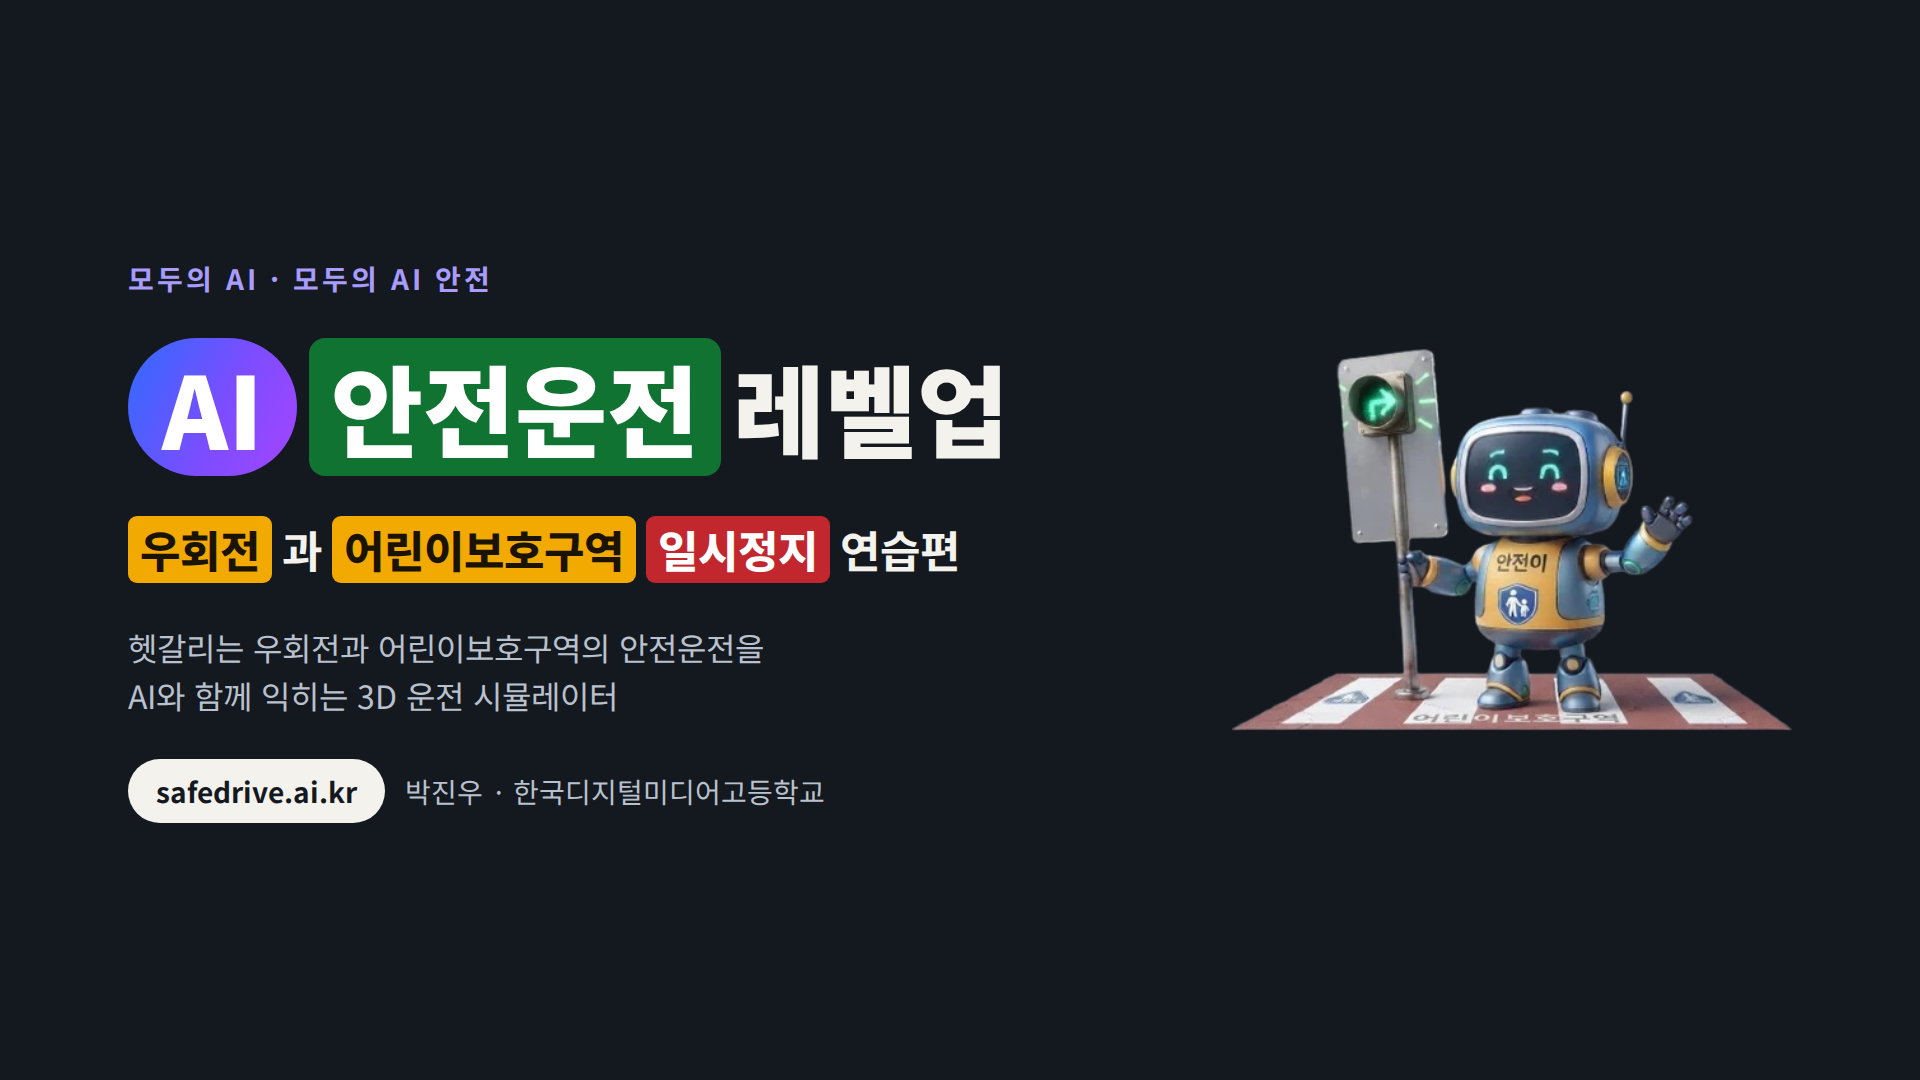
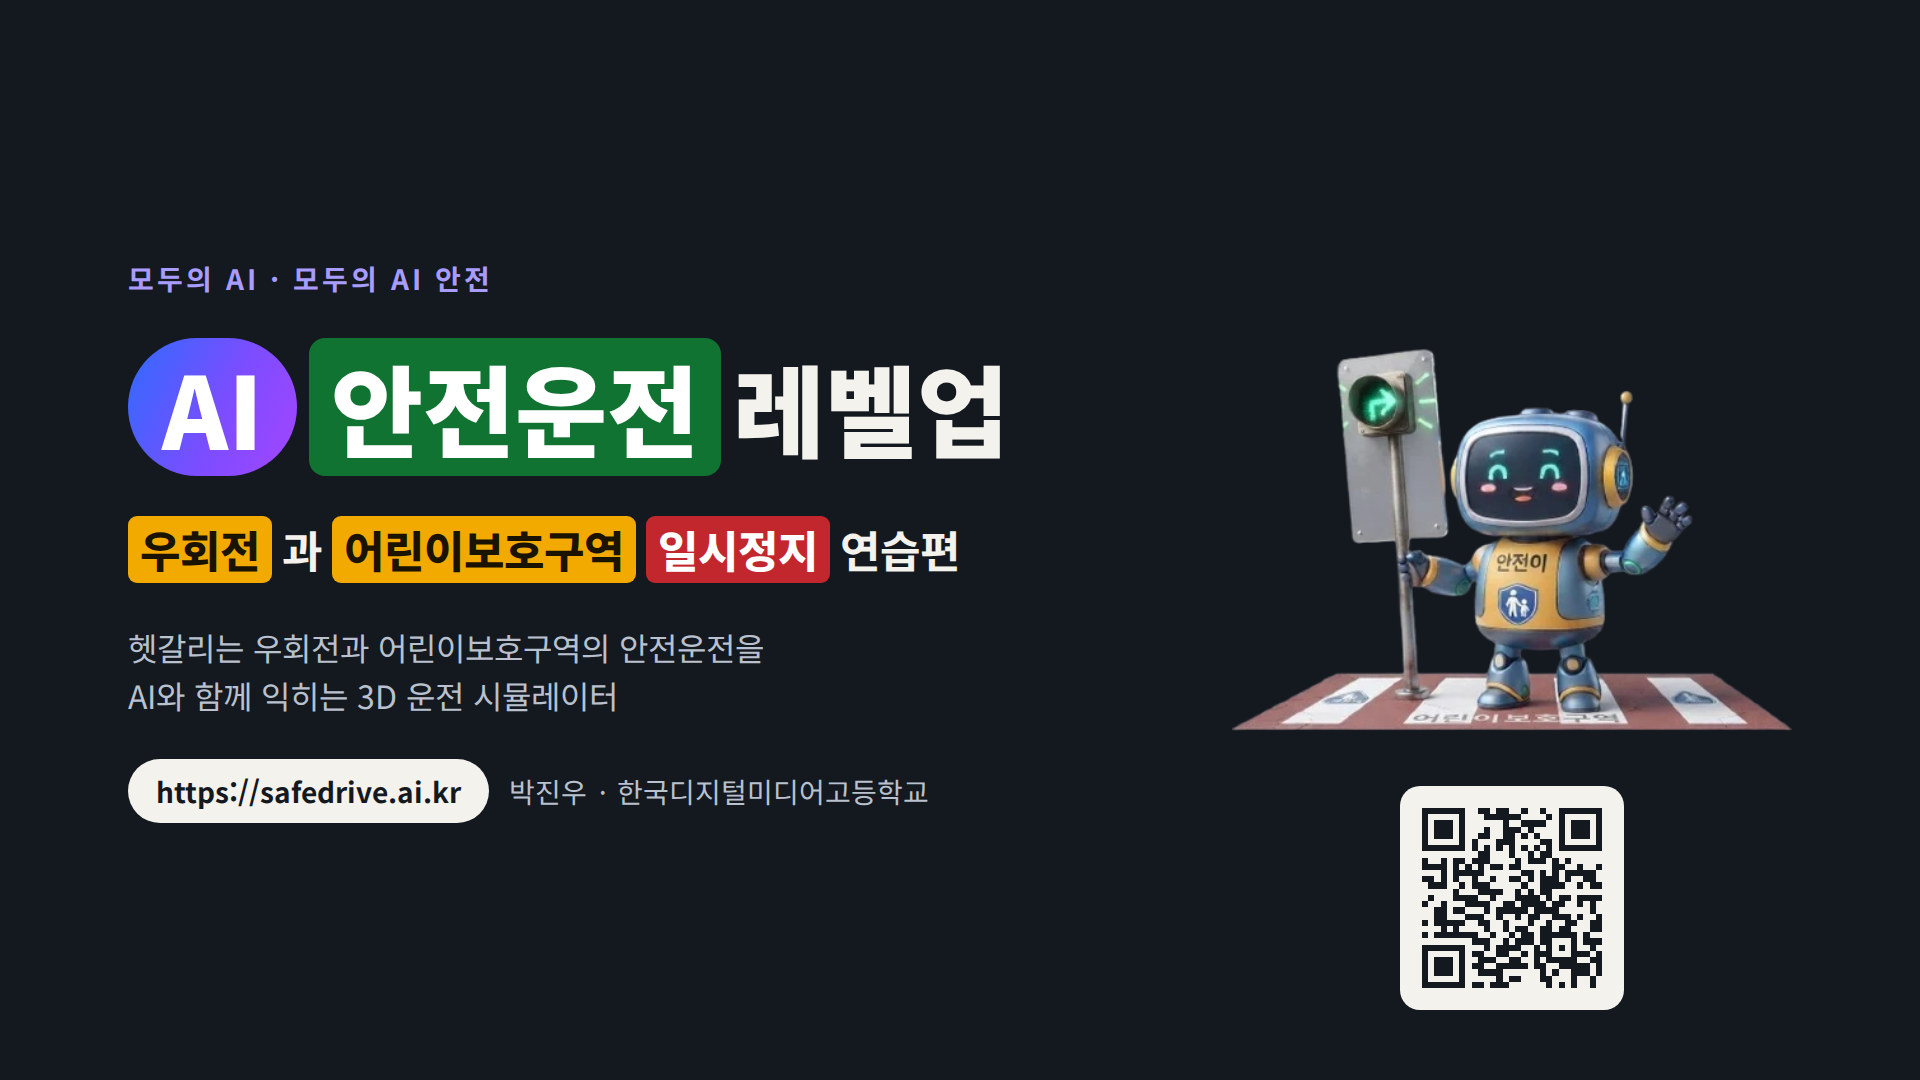
표지와 2쪽 주소를 온전히 적고 표지에 QR 을 넣는다
표지를 찍으면 바로 들어올 수 있게 로봇 아래에 QR 을 두었다.

그러다 18쪽 QR 이 아직 옛 주소(safeturn.vercel.app)를 담고 있는 것을
찾아 함께 고쳤다. 도메인을 바꿀 때 마무리 장표의 QR 만 다시 만들고
이쪽은 지나쳤다. 세 장표의 QR 을 그림에서 직접 읽어 확인했다.

Changed region(s): [[0.7188, 0.7028, 0.8438, 0.9472], [0.0625, 0.7028, 0.4688, 0.7639]]

diff --git a/AI_safelevelup_portfolio.html b/AI_safelevelup_portfolio.html
@@ -226,7 +226,7 @@
 
   <div class="frame" id="frame">
     <section class="slide" data-chapter="처음" data-title="표지">
-      <img src="docs/slides/01-cover.png" alt="AI 안전운전 레벨업 — 우회전과 어린이보호구역 일시정지 연습편. 모두의 AI · 모두의 AI 안전, 박진우 · 한국디지털미디어고등학교" decoding="async" fetchpriority="high">
+      <img src="docs/slides/01-cover.png" alt="AI 안전운전 레벨업 — 우회전과 어린이보호구역 일시정지 연습편. 모두의 AI · 모두의 AI 안전, 박진우 · 한국디지털미디어고등학교. 주소 https://safedrive.ai.kr 과 QR 코드" decoding="async" fetchpriority="high">
     </section>
     <section class="slide" data-chapter="처음" data-title="들어가며 · AI 안전운전 레벨업을 만든 이유">
       <img src="docs/slides/02-intro.png" alt="들어가며 — AI 안전운전 레벨업을 만든 이유" loading="lazy" decoding="async">

diff --git a/CHANGELOG.md b/CHANGELOG.md
@@ -38,6 +38,8 @@
 
 ### 고침
 
+- **18쪽 QR 코드가 옛 주소를 담고 있었습니다** — 찍으면 `https://safeturn.vercel.app` 으로 갔습니다. 도메인을 바꿀 때 **마무리 장표의 QR 만** 다시 만들고 이쪽은 지나쳤습니다. 지금은 넘겨주기가 살아 있어 결국 열리기는 했지만, 그 주소를 내리면 끊깁니다. 세 장표(표지 · 18쪽 · 마무리)의 QR 을 그림에서 직접 읽어 모두 `https://safedrive.ai.kr` 인 것을 확인했습니다.
+
 - **자전거를 타고 건너는 사람이 자전거횡단도가 아니라 횡단보도 줄무늬 위로 건너던 것**을 고쳤습니다 — 노면의 붉은 띠와 사람이 건너는 자리를 따로 두어, 옆에 자전거횡단도를 그려 놓고 **정작 자전거는 그 위로 지나가지 않았습니다.** 사용자가 짚었습니다: "조금 아래로 지나가면 자전거 통행 부분으로 지나갈 것 같아." 이제 띠와 자전거가 같은 값을 봅니다 — 타고 건너는 자전거는 띠 위로, 내려서 끌고 가는 사람은 보행자이므로(제2조 제17호) 줄무늬 위로 건넙니다. **자리가 갈리는 것이 곧 규칙입니다.**
   - 곁들여, 어린이보호구역 전용 도로의 **세 번째 횡단보도 띠가 정지선 뒤에 깔려 있던 것**도 고쳤습니다 — 첫·두 번째는 정지선과 횡단보도 사이인데 세 번째만 2m 어긋나, 차가 정지선에 서면 띠가 차 밑으로 들어갔습니다.
 
@@ -72,6 +74,8 @@
   - 그 장에서만 쓰던 `screenshot/09_about.png` 는 저장소에 그대로 두었습니다 — 배포본은 페이지가 부르는 그림만 실어 나르므로 이제 올라가지 않습니다.
 
 - **온라인 활용 장표(18쪽)의 QR 아래 주소도 `https://safedrive.ai.kr` 로 온전히 적었습니다** (사용자가 정했습니다).
+
+- **표지와 2쪽의 주소도 `https://safedrive.ai.kr` 로 적고, 표지에 QR 코드를 넣었습니다** (사용자가 정했습니다). 표지를 찍어 바로 들어올 수 있습니다.
 
 - **GitHub 저장소 소개도 고쳤습니다** — 소개 글을 **AI 가 무엇을 해 주는지**로 다시 쓰고(개정 연도 대신), 홈페이지 주소를 `safelevelup.vercel.app` 에서 **`https://safedrive.ai.kr`** 로 바꿨습니다.
 
